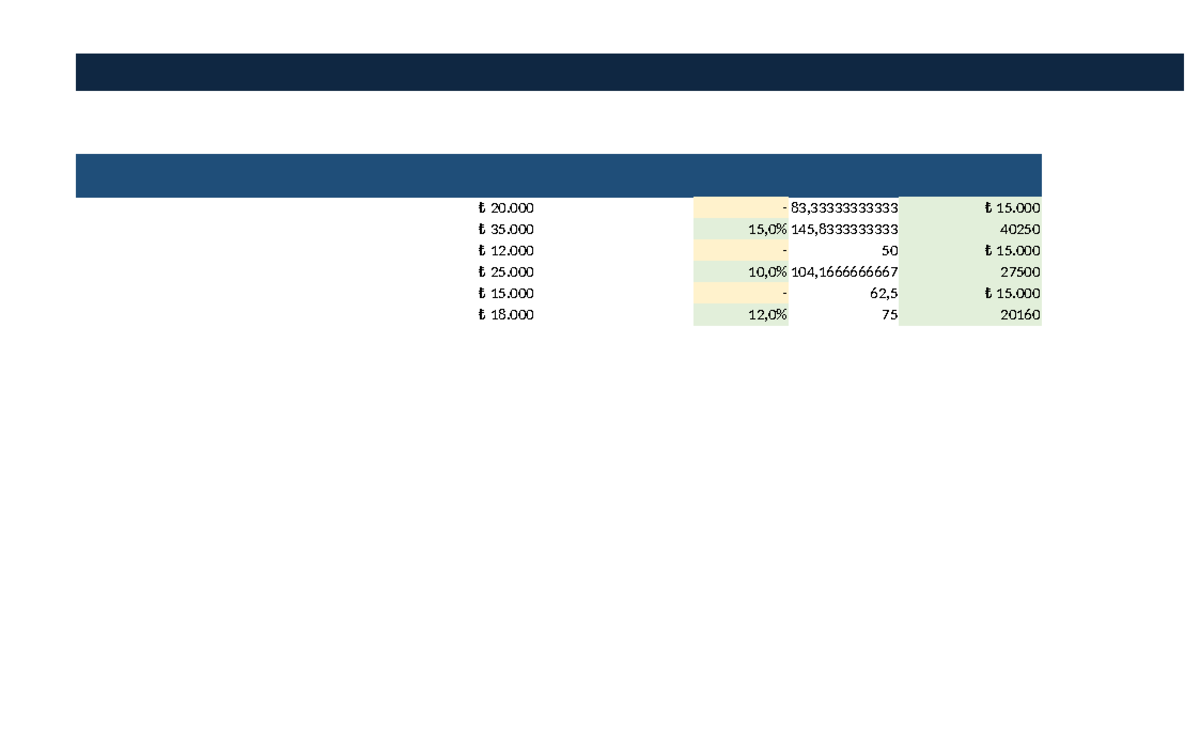
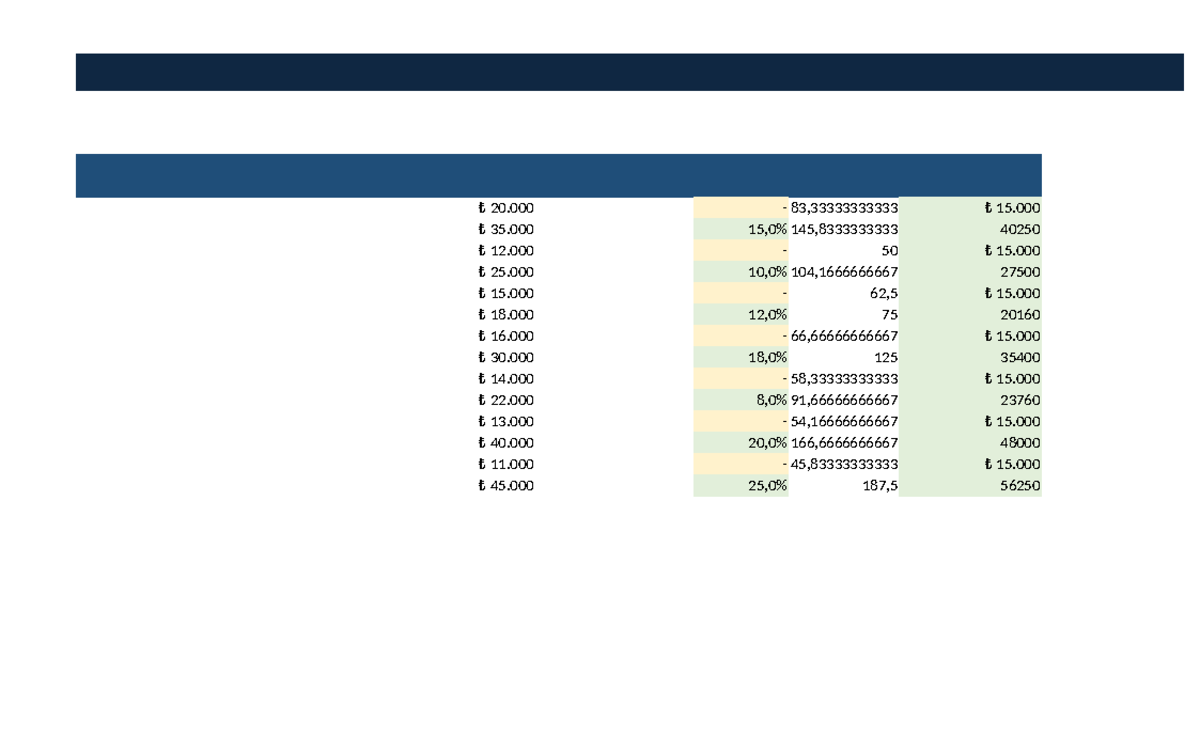
gorsel: 10 yeni ürünün ekran görüntüleri gerçek demo veriyle yeniden üretildi
Demo verisi zenginleştirilmiş cikti dosyalarından görseller üretildi; tablo,
KARAR ve PANO sayfaları dolu ve müşteriye fikir verir durumda. Ayrıca
proof-demo.test.js içindeki çözülmemiş merge çakışması giderildi.

Changed region(s): [[0.555, 0.4293, 0.8942, 0.6747], [0.4008, 0.4293, 0.4625, 0.6747]]

diff --git a/scripts/generate-screenshots.py b/scripts/generate-screenshots.py
@@ -42,6 +42,21 @@ SAYFALAR = {
     "ithalat-depo-teslim-rafa-gelen-net-birim-maliyet": ["URUNLER", "KARAR", "PANO"],
 }
 
+# Slug → demo veri dolu üretim dosyası eşlemesi. Bu dosyalar üretim betiğinin
+# çıktısıdır (demo_veri_doldur ile dolu) ve görseller gerçek tabloyu gösterir.
+DEMO_KAYNAK = {
+    "asgari-ucret-zam-etkisi-fiyat-ayarlama-cetveli": "AsgariUcretZamEtkisiFiyatAyarlamaCetveli.xlsx",
+    "asiri-dusuk-teklif-savunma-robotu": "AsiriDusukTeklifSavunmaRobotu.xlsx",
+    "fazla-mesai-ve-isci-dava-riski-tespit-dosyasi": "FazlaMesaiVeIsciDavaRiskiTespitDosyasi.xlsx",
+    "hakedis-fiyat-farki-hak-kaybi-cetveli": "HakedisFiyatFarkiVeHakKaybiCetveli.xlsx",
+    "ihaleye-kac-tl-teklif-vermeliyim": "IhaleyeKacTlTeklifVermeliyim.xlsx",
+    "ithalat-depo-teslim-rafa-gelen-net-birim-maliyet": "IthalatDepoTeslimNetBirimMaliyet.xlsx",
+    "kacirilan-sgk-tesvikleri-ve-gercek-iscilik-maliyeti-analizi": "KacirilanSgkTesvikleriVeGercekIscilikMaliyetiAnalizi.xlsx",
+    "kidem-ihbar-yuku-ve-personel-cikarma-maliyeti-hesaplayici": "KidemIhbarYukuVePersonelCikarmaMaliyetiHesaplayici.xlsx",
+    "taseron-hakedis-kesinti-mutabakati": "TaseronHakedisVeKesintiMutabakati.xlsx",
+    "yillara-sari-insaat-stopaj-nakit-akis-planlayici": "YillaraSariInsaatStopajVeNakitAkisPlanlayici.xlsx",
+}
+
 
 def dolu_alan(ws):
     """Ekran görüntüsü için kompakt print_area üretir.
@@ -160,6 +175,8 @@ def main():
     ap = argparse.ArgumentParser()
     ap.add_argument("sluglar", nargs="*")
     ap.add_argument("--soffice", default="soffice")
+    ap.add_argument("--demo-kaynak", default="",
+                    help="Demo veri dolu dosyaların dizini (varsayılan: delivery/paid-products)")
     a = ap.parse_args()
 
     slugs = a.sluglar or list(SAYFALAR)
@@ -168,10 +185,19 @@ def main():
         if slug not in SAYFALAR:
             sys.stderr.write("Bilinmeyen slug: %s\n" % slug)
             continue
-        kaynak = os.path.join(TESLIM, slug, "current.xlsx")
-        if not os.path.exists(kaynak):
-            sys.stderr.write("Teslim dosyası yok: %s\n" % kaynak)
-            continue
+        if a.demo_kaynak:
+            if slug not in DEMO_KAYNAK:
+                sys.stderr.write("Demo kaynak eşlemesi yok: %s\n" % slug)
+                continue
+            kaynak = os.path.join(a.demo_kaynak, DEMO_KAYNAK[slug])
+            if not os.path.exists(kaynak):
+                sys.stderr.write("Demo dosyası yok: %s\n" % kaynak)
+                continue
+        else:
+            kaynak = os.path.join(TESLIM, slug, "current.xlsx")
+            if not os.path.exists(kaynak):
+                sys.stderr.write("Teslim dosyası yok: %s\n" % kaynak)
+                continue
         for i, sayfa in enumerate(SAYFALAR[slug], start=1):
             cikti = os.path.join(CIKTI, "%s-%d.png" % (slug, i))
             if sayfa_görüntüle(kaynak, sayfa, cikti, a.soffice):
